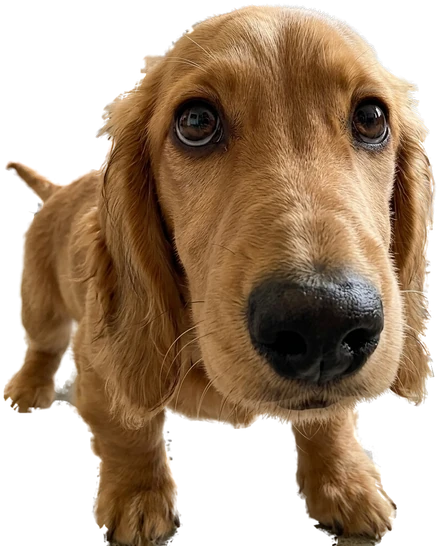
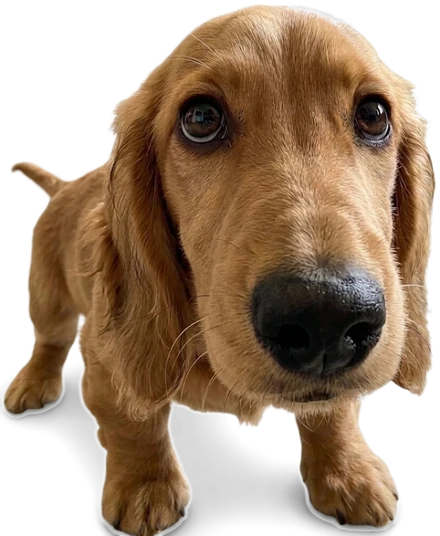
Use the white-background puppy, now wagging its tail as well
The cut-out from the room photo left rough edges, so the puppy now comes
from the same photo on a white background. Edge pixels are unmixed from
the white so no fringe shows on the dark card, and grey contact shadows
under the paws are dropped.

Besides the blink, the tail now wags: it bends from a fixed root, more
towards the tip, with the tip trailing a little. A 3.2 s loop of 50 ms
frames (229 KB), wagging every 0.4 s with one blink per loop.

diff --git a/src/components/DonationPrompt/PuppyEyes.tsx b/src/components/DonationPrompt/PuppyEyes.tsx
@@ -3,20 +3,21 @@ import puppyStill from './puppy-still.webp';
 
 /**
  * The puppy above the ask: a long-haired puppy looking up at whoever is holding the phone, its
- * big nose closest to them, blinking now and then.
+ * big nose closest to them, wagging its tail and blinking now and then.
  *
  * It replaced a drawn head whose pleading face read as close to tears. This one looks up at you
  * the same way, as a real puppy does.
  *
- * The background was cut away and the blink made by stretching the fur above each eye down over
- * it, the way an upper lid closes. It is an animated WebP: open for about three seconds, then a
- * blink of about 300 ms. The same puppy stays on the thank-you, so the puppy that asked is the one
- * that is thanked.
+ * The white background was cut away for the dark card. The blink stretches the fur above each eye
+ * down over it, the way an upper lid closes, and the tail bends from its root with the tip trailing
+ * a little. It is an animated WebP: a 3.2 s loop of 50 ms frames, the tail wagging every 0.4 s and
+ * one blink of about 350 ms. The same puppy stays on the thank-you, so the puppy that asked is the
+ * one that is thanked.
  */
 
-/** The clip is 440 by 546; this keeps its proportions. */
+/** The clip is 440 by 536; this keeps its proportions. */
 const WIDTH = 160;
-const HEIGHT = 199;
+const HEIGHT = 195;
 
 export default function PuppyEyes() {
   return (
